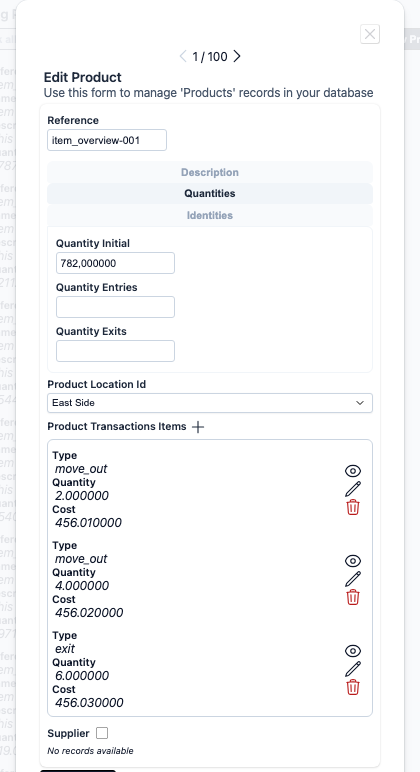
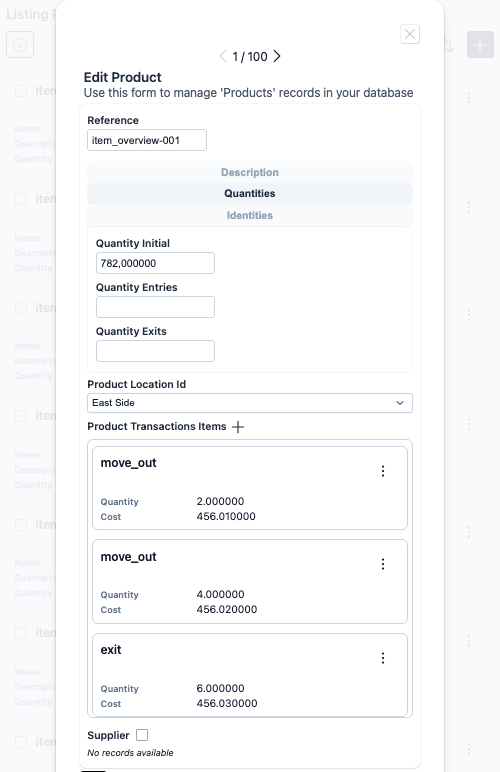
merge - chore: release 0.2.1-rc.1 (#543)
* chore: release 0.2.1-rc.1

Claude-Session: https://claude.ai/code/session_01YKupPgJ3ei5GhyhHup42UR

* docs: regenerate guide images

Claude-Session: https://claude.ai/code/session_01YKupPgJ3ei5GhyhHup42UR

* docs: widen mobile guide image crops

Claude-Session: https://claude.ai/code/session_01YKupPgJ3ei5GhyhHup42UR

* docs: keep the original width for Ash mobile images

Claude-Session: https://claude.ai/code/session_01YKupPgJ3ei5GhyhHup42UR

* docs: use one width for all mobile guide images

Claude-Session: https://claude.ai/code/session_01YKupPgJ3ei5GhyhHup42UR

---------

diff --git a/ROADMAP.md b/ROADMAP.md
@@ -5,16 +5,21 @@ this is a dynamic wishlist that evolves based on community feedback, adoption pa
 
 **Note**: Priorities and implementation order will be determined based on community adoption, feature requests, and identified pain points.
 
-## Current Status: v0.2.0
+## Current Status: v0.2.1-rc.1
 
-Aurora UIX v0.2.0 moves the resource metadata, layout, theme and layout option DSLs to Spark. Options are type-checked at compile time, and layouts can be reused across modules with `auix_create_ui include:`. This release is breaking; see the What's New guide.
+Aurora UIX v0.2.1 lets the index, form and show UIs be embedded as components in any LiveView, and adds action icons and a card layout for the index list. It has two compile-time breaking changes; see the What's New guide.
 
-**Recent Changes (v0.2.0)**:
+**Recent Changes (v0.2.1)**:
+- `IndexComponent`, `FormComponent` and `ShowComponent` for reusable components
+- Action icons on default actions
+- Card layout for the index list, with a header menu, tap-to-show and an icon sort menu
+- Theme-driven menus and classes for the sort control and index cards
+
+**Previous Release (v0.2.0)**:
 - Resource metadata, layout, theme and layout option DSLs moved to Spark
-- Typed structures for resources, fields, layout nodes, theme rules and layout options
 - Reusable layouts (`auix_create_ui include:`)
 
-**Previous Release (v0.1.7)**:
+**Earlier Release (v0.1.7)**:
 - Card view sort control and `sort_disabled?` index option
 - Attribute-based id selectors for ids starting with a digit
 

diff --git a/README.md b/README.md
@@ -123,7 +123,7 @@ Add Aurora UIX to your `mix.exs`:
 ```elixir
 def deps do
   [
-    {:aurora_uix, "~> 0.2.0"}
+    {:aurora_uix, "~> 0.2.1-rc.1"}
   ]
 end
 ```
@@ -226,7 +226,7 @@ Complete documentation is available in the [guides](./guides/overview/overview.m
 - **[Build Your First App](./guides/tutorial/build_your_first_app.md)** — Zero-background tutorial: from nothing installed to a running CRUD app
 - **[Overview](./guides/overview/overview.md)** — Architecture and core concepts
 - **[Getting Started](./guides/introduction/getting_started.md)** — Installation and first CRUD UI
-- **[What's New](./guides/whats_new/0.2.0.md)** — Headline changes of 0.2.0 with upgrade notes and examples; one page is kept per release in `guides/whats_new/`
+- **[What's New](./guides/whats_new/0.2.1.md)** — Headline changes of 0.2.1 with upgrade notes and examples; one page is kept per release in `guides/whats_new/`
 - **[Resource Metadata](./guides/core/resource_metadata.md)** — Field configuration and validation
 - **[Layout System](./guides/core/layouts.md)** — Layout DSL and composition
 - **[LiveView Integration](./guides/core/liveview.md)** — Event handling and business logic

diff --git a/CHANGELOG.md b/CHANGELOG.md
@@ -2,6 +2,12 @@
 
 ## [0.2.1]
 
+**Reusable components and index cards**
+
+This release lets the index, form and show UIs be embedded as components in any LiveView, adds action
+icons and a card layout for the index list, and updates dependencies. It has two compile-time breaking
+changes: see the What's New guide for the upgrade checklist.
+
 ### Added
 
 - **Reusable components**: `IndexComponent`, `FormComponent` and `ShowComponent` can be embedded in

diff --git a/guides/core/ash_integration.md b/guides/core/ash_integration.md
@@ -37,7 +37,7 @@ Besides Aurora UIX, you'll need to add Ash dependencies for using it as a backen
 ```elixir
 def deps do
   [
-    {:aurora_uix, "~> 0.2.0"},  # Main framework
+    {:aurora_uix, "~> 0.2.1-rc.1"},  # Main framework
     {:ash, "~> 3.0"},           # If use Ash as backend
     {:ash_postgres, "~> 2.0"}   # Needed if using postgres as your data layer. Add any other data layer required by your backend
   ]

diff --git a/guides/introduction/getting_started.md b/guides/introduction/getting_started.md
@@ -17,7 +17,7 @@ Add `aurora_uix` to your `mix.exs` dependencies. Make sure your Phoenix project 
 ```elixir
 def deps do
   [
-    {:aurora_uix, "~> 0.2.0"}
+    {:aurora_uix, "~> 0.2.1-rc.1"}
   ]
 end
 ```
